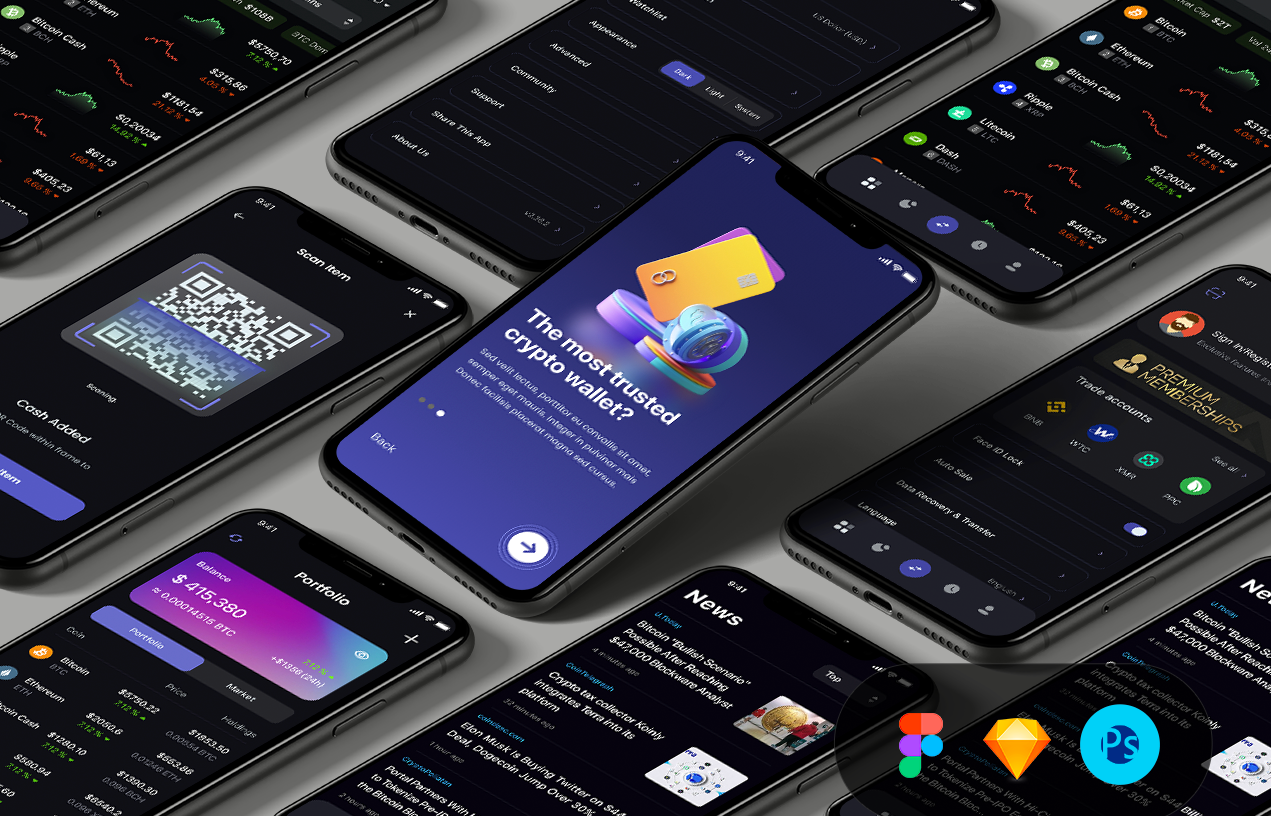
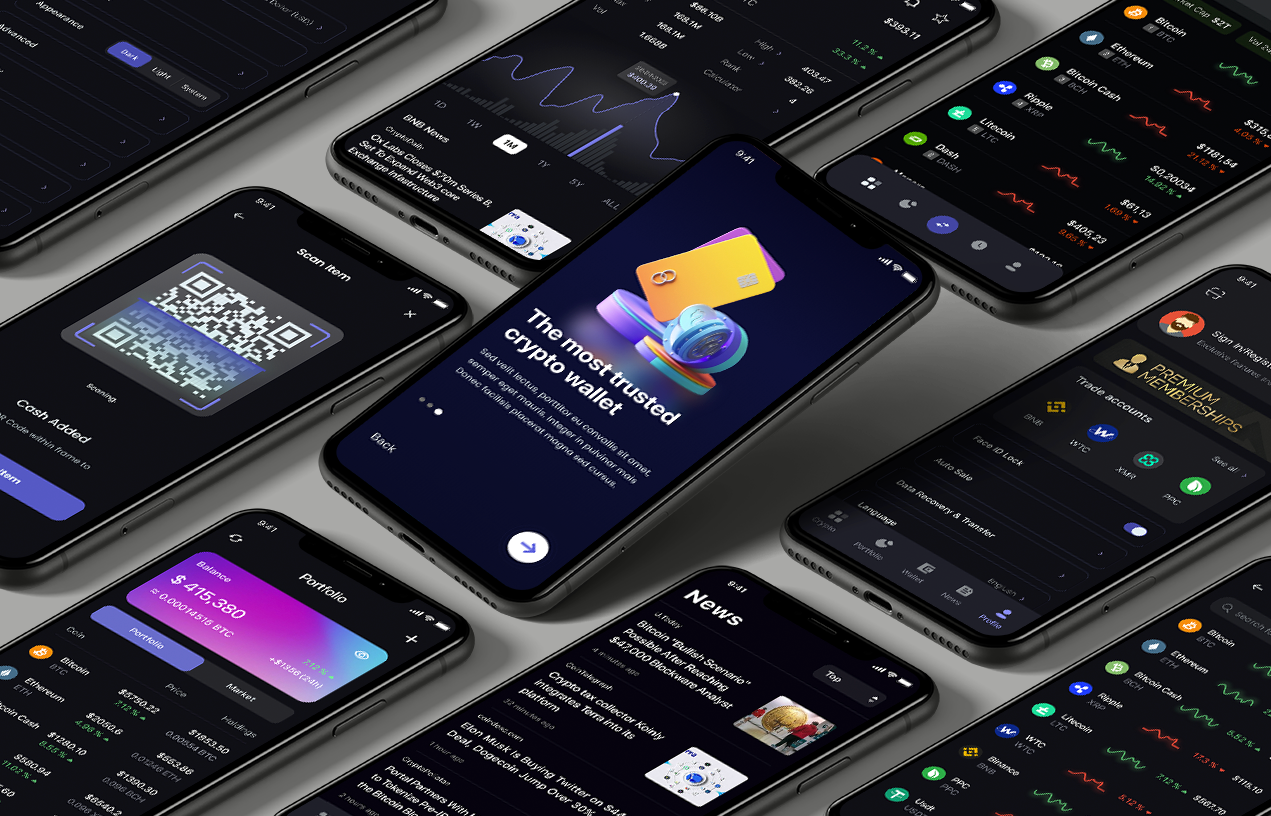
new img

diff --git a/index.html b/index.html
@@ -696,7 +696,7 @@ exciting information about Rwanda
 
         <div class="col-lg-6 col-md-6 portfolio-item filter-app">
           <div class="portfolio-wrap">
-            <img src="assets/img/portfolio/crypto banner1.png" class="img-fluid" alt="">
+            <img src="assets/img/portfolio/crypto banner.png" class="img-fluid" alt="">
             <div class="portfolio-info">
               <h4>Crypto Mobile App</h4>
               <div class="portfolio-links">

diff --git a/crypto.html b/crypto.html
@@ -55,6 +55,10 @@
                   <img src="assets/img/portfolio/crypto content.png" alt="">
                 </div>
 
+                <div class="swiper-slide">
+                  <img src="assets/img/portfolio/crypto content white.png" alt="">
+                </div>
+
               </div>
               <div class="swiper-pagination"></div>
             </div>
